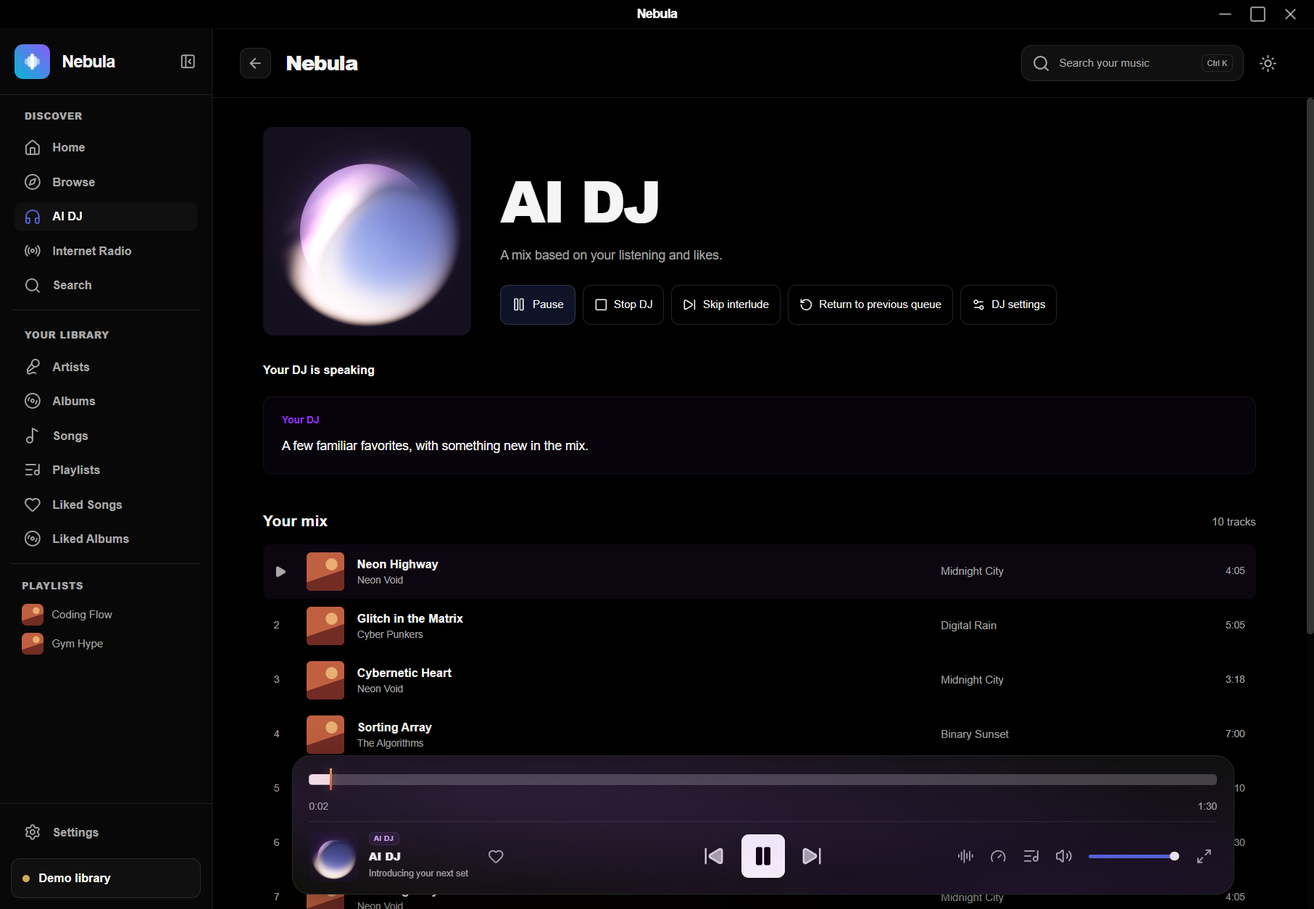
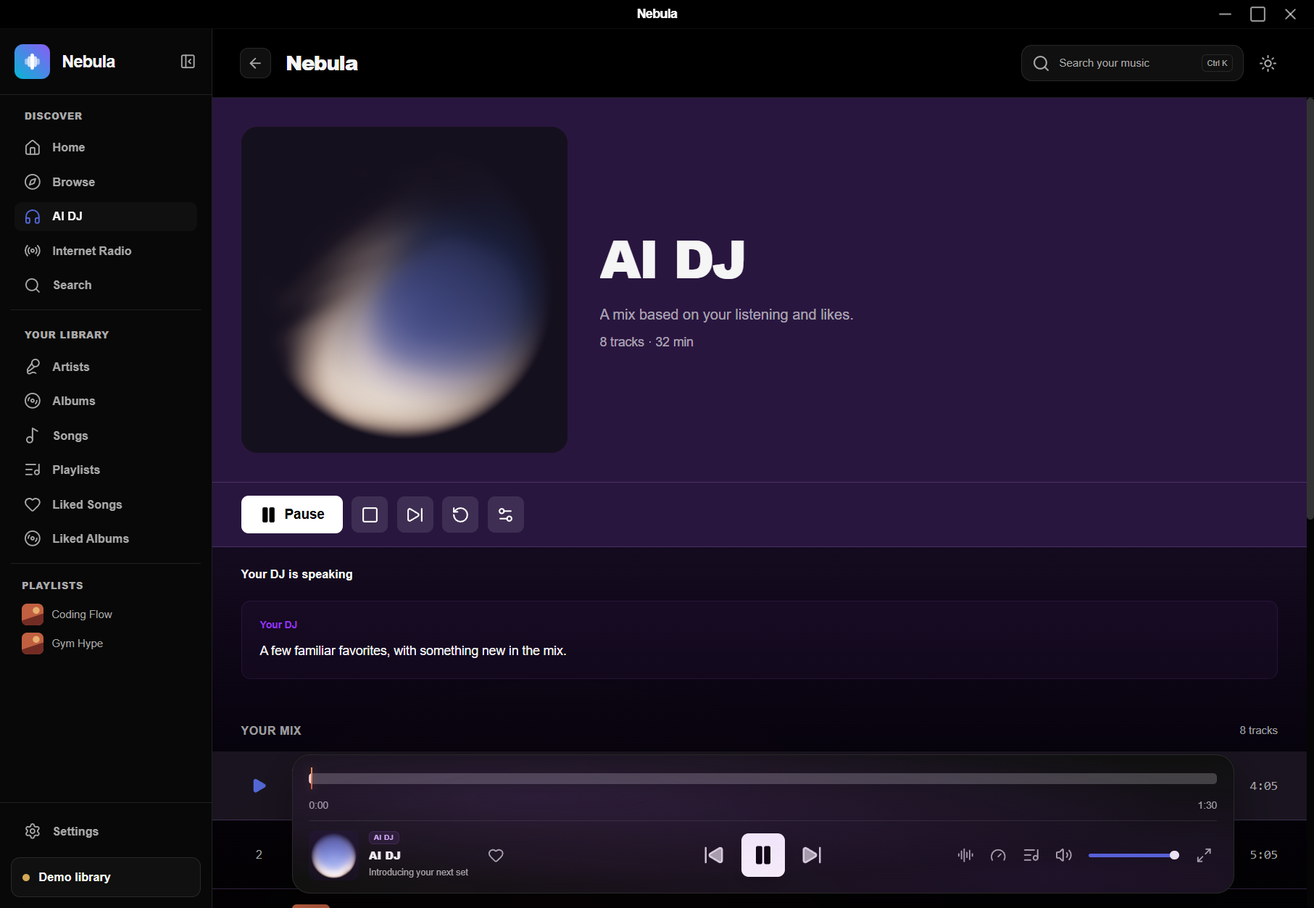
Align AI DJ Discover with collection views and animate idle cover

diff --git a/next-ui.css b/next-ui.css
@@ -282,7 +282,7 @@ html.dark .nebula-next-setup .nebula-setup-card { border-color: #303030; backgro
 .nebula-next [data-nebula-radio-modal] { overflow-y: auto; }
 
 /* Shared collection header contracts without changing the document height. */
-.nebula-next :is([data-nebula-view="album-detail"], [data-nebula-view="playlist-detail"]) { --album-line: color-mix(in srgb, var(--album-color) 24%, var(--next-line)); --collection-expanded-cover: clamp(280px, 25vw, 360px); --collection-expanded-font: clamp(36px, 4vw, 64px); --collection-expanded-height: calc(var(--collection-expanded-cover) + 136px); --collection-compact-height: 124px; background: linear-gradient(180deg, color-mix(in srgb, var(--album-color) 42%, var(--next-canvas)) 0px, color-mix(in srgb, var(--album-color) 18%, var(--next-canvas)) 520px, var(--next-canvas) 1150px); }
+.nebula-next :is([data-nebula-view="album-detail"], [data-nebula-view="playlist-detail"], [data-nebula-view="ai-dj"]) { --album-line: color-mix(in srgb, var(--album-color) 24%, var(--next-line)); --collection-expanded-cover: clamp(280px, 25vw, 360px); --collection-expanded-font: clamp(36px, 4vw, 64px); --collection-expanded-height: calc(var(--collection-expanded-cover) + 136px); --collection-compact-height: 124px; background: linear-gradient(180deg, color-mix(in srgb, var(--album-color) 42%, var(--next-canvas)) 0px, color-mix(in srgb, var(--album-color) 18%, var(--next-canvas)) 520px, var(--next-canvas) 1150px); }
 .nebula-collection-header { --collection-collapse: 0; position: sticky; top: 0; z-index: 20; height: calc(var(--collection-expanded-height) - (var(--collection-expanded-height) - var(--collection-compact-height)) * var(--collection-collapse)); background: color-mix(in srgb, var(--album-color) 38%, var(--next-canvas)); }
 .nebula-collection-spacer { --collection-collapse: 0; height: calc((var(--collection-expanded-height) - var(--collection-compact-height)) * var(--collection-collapse)); pointer-events: none; }
 .nebula-collection-heading { display: flex; align-items: center; gap: calc(36px - 20px * var(--collection-collapse)); height: calc(var(--collection-expanded-height) - 72px - (var(--collection-expanded-height) - 144px) * var(--collection-collapse)); padding: calc(32px - 20px * var(--collection-collapse)) 32px; overflow: hidden; }
@@ -299,23 +299,23 @@ html.dark .nebula-next-setup .nebula-setup-card { border-color: #303030; backgro
 .nebula-next [data-nebula-album-options] button { min-width: 40px; min-height: 40px; padding: 10px; font-size: 15px; }
 .nebula-next [data-nebula-album-options] button:first-child { padding-inline: 20px; }
 .nebula-next [data-nebula-album-options] svg { width: 20px; height: 20px; }
-.nebula-next :is([data-nebula-view="album-detail"], [data-nebula-view="playlist-detail"]) [data-nebula-detail-content] { padding: 0 32px; }
-.nebula-next :is([data-nebula-view="album-detail"], [data-nebula-view="playlist-detail"]) [data-nebula-track-section] { margin-inline: -32px; background: none; border: 0; border-radius: 0; }
-.nebula-next :is([data-nebula-view="album-detail"], [data-nebula-view="playlist-detail"]) [data-nebula-track-section-inner] { padding: 0; }
-.nebula-next :is([data-nebula-view="album-detail"], [data-nebula-view="playlist-detail"]) [data-nebula-track-section-inner] > h2 { font-size: 13px; padding: 20px 32px 0; }
-.nebula-next :is([data-nebula-view="album-detail"], [data-nebula-view="playlist-detail"]) [data-nebula-track-list] { padding: 0; border: 0; border-radius: 0; background: none; }
-.nebula-next :is([data-nebula-view="album-detail"], [data-nebula-view="playlist-detail"]) [data-nebula-track-row] { min-height: 76px; padding: 12px 32px; margin: 0; border: 0; border-bottom: 1px solid var(--album-line); border-radius: 0; background: transparent; transition: background-color .18s ease; }
-.nebula-next :is([data-nebula-view="album-detail"], [data-nebula-view="playlist-detail"]) [data-nebula-track-row]:hover, .nebula-next :is([data-nebula-view="album-detail"], [data-nebula-view="playlist-detail"]) [data-nebula-track-row]:focus-within { background: color-mix(in srgb, var(--album-color) 12%, var(--next-surface)); }
-.nebula-next :is([data-nebula-view="album-detail"], [data-nebula-view="playlist-detail"]) [data-nebula-track-row][data-current="true"] { background: color-mix(in srgb, var(--album-color) 10%, var(--next-surface)); }
+.nebula-next :is([data-nebula-view="album-detail"], [data-nebula-view="playlist-detail"], [data-nebula-view="ai-dj"]) [data-nebula-detail-content] { padding: 0 32px; }
+.nebula-next :is([data-nebula-view="album-detail"], [data-nebula-view="playlist-detail"], [data-nebula-view="ai-dj"]) [data-nebula-track-section] { margin-inline: -32px; background: none; border: 0; border-radius: 0; }
+.nebula-next :is([data-nebula-view="album-detail"], [data-nebula-view="playlist-detail"], [data-nebula-view="ai-dj"]) [data-nebula-track-section-inner] { padding: 0; }
+.nebula-next :is([data-nebula-view="album-detail"], [data-nebula-view="playlist-detail"], [data-nebula-view="ai-dj"]) [data-nebula-track-section-inner] > h2 { font-size: 13px; padding: 20px 32px 0; }
+.nebula-next :is([data-nebula-view="album-detail"], [data-nebula-view="playlist-detail"], [data-nebula-view="ai-dj"]) [data-nebula-track-list] { padding: 0; border: 0; border-radius: 0; background: none; }
+.nebula-next :is([data-nebula-view="album-detail"], [data-nebula-view="playlist-detail"], [data-nebula-view="ai-dj"]) [data-nebula-track-row] { min-height: 76px; padding: 12px 32px; margin: 0; border: 0; border-bottom: 1px solid var(--album-line); border-radius: 0; background: transparent; transition: background-color .18s ease; }
+.nebula-next :is([data-nebula-view="album-detail"], [data-nebula-view="playlist-detail"], [data-nebula-view="ai-dj"]) [data-nebula-track-row]:hover, .nebula-next :is([data-nebula-view="album-detail"], [data-nebula-view="playlist-detail"], [data-nebula-view="ai-dj"]) [data-nebula-track-row]:focus-within { background: color-mix(in srgb, var(--album-color) 12%, var(--next-surface)); }
+.nebula-next :is([data-nebula-view="album-detail"], [data-nebula-view="playlist-detail"], [data-nebula-view="ai-dj"]) [data-nebula-track-row][data-current="true"] { background: color-mix(in srgb, var(--album-color) 10%, var(--next-surface)); }
 .nebula-next [data-nebula-track-title] { font-size: 16px; font-weight: 600; }
 .nebula-next [data-nebula-track-duration] { font-size: 14px; width: 48px; }
 .nebula-next [data-nebula-track-play] { width: 40px; height: 40px; border-radius: 8px; }
 .nebula-next [data-nebula-track-play] > span { font-size: 13px; }
 .nebula-next [data-nebula-track-play] > svg { width: 18px; height: 18px; }
-.nebula-next :is([data-nebula-view="album-detail"], [data-nebula-view="playlist-detail"]) [data-nebula-track-actions] button { width: 40px; height: 40px; display: grid; place-items: center; border-radius: 8px; }
-.nebula-next :is([data-nebula-view="album-detail"], [data-nebula-view="playlist-detail"]) [data-nebula-track-actions] svg { width: 18px; height: 18px; }
+.nebula-next :is([data-nebula-view="album-detail"], [data-nebula-view="playlist-detail"], [data-nebula-view="ai-dj"]) [data-nebula-track-actions] button { width: 40px; height: 40px; display: grid; place-items: center; border-radius: 8px; }
+.nebula-next :is([data-nebula-view="album-detail"], [data-nebula-view="playlist-detail"], [data-nebula-view="ai-dj"]) [data-nebula-track-actions] svg { width: 18px; height: 18px; }
 .nebula-next [data-nebula-track-quality] { font-size: 11px; padding: 3px 6px; }
-.nebula-next :is([data-nebula-view="album-detail"], [data-nebula-view="playlist-detail"]) button:focus-visible { outline: 2px solid var(--next-accent); outline-offset: 2px; }
+.nebula-next :is([data-nebula-view="album-detail"], [data-nebula-view="playlist-detail"], [data-nebula-view="ai-dj"]) button:focus-visible { outline: 2px solid var(--next-accent); outline-offset: 2px; }
 
 @container nebula-rail (max-height: 720px) {
   .nebula-rail-brand { height: 56px; }
@@ -339,14 +339,14 @@ html.dark .nebula-next-setup .nebula-setup-card { border-color: #303030; backgro
   .nebula-rail-status { padding: 5px; }
 }
 @media (max-width: 767px) {
-  .nebula-next :is([data-nebula-view="album-detail"], [data-nebula-view="playlist-detail"]) { --collection-expanded-cover: clamp(110px, 30vw, 180px); --collection-expanded-font: 28px; --collection-expanded-height: calc(var(--collection-expanded-cover) + 200px); }
+  .nebula-next :is([data-nebula-view="album-detail"], [data-nebula-view="playlist-detail"], [data-nebula-view="ai-dj"]) { --collection-expanded-cover: clamp(110px, 30vw, 180px); --collection-expanded-font: 28px; --collection-expanded-height: calc(var(--collection-expanded-cover) + 200px); }
   .nebula-collection-heading { padding-inline: 16px; gap: 16px; }
   .nebula-collection-actions { padding-inline: 16px; }
-  .nebula-next :is([data-nebula-view="album-detail"], [data-nebula-view="playlist-detail"]) [data-nebula-detail-content] { padding-inline: 16px; }
+  .nebula-next :is([data-nebula-view="album-detail"], [data-nebula-view="playlist-detail"], [data-nebula-view="ai-dj"]) [data-nebula-detail-content] { padding-inline: 16px; }
   .nebula-next [data-nebula-album-meta] { font-size: 13px; }
-  .nebula-next :is([data-nebula-view="album-detail"], [data-nebula-view="playlist-detail"]) [data-nebula-track-row] { padding: 10px 16px; gap: 6px; }
-  .nebula-next :is([data-nebula-view="album-detail"], [data-nebula-view="playlist-detail"]) [data-nebula-track-section] { margin-inline: -16px; }
-  .nebula-next :is([data-nebula-view="album-detail"], [data-nebula-view="playlist-detail"]) [data-nebula-track-section-inner] > h2 { padding-inline: 16px; }
+  .nebula-next :is([data-nebula-view="album-detail"], [data-nebula-view="playlist-detail"], [data-nebula-view="ai-dj"]) [data-nebula-track-row] { padding: 10px 16px; gap: 6px; }
+  .nebula-next :is([data-nebula-view="album-detail"], [data-nebula-view="playlist-detail"], [data-nebula-view="ai-dj"]) [data-nebula-track-section] { margin-inline: -16px; }
+  .nebula-next :is([data-nebula-view="album-detail"], [data-nebula-view="playlist-detail"], [data-nebula-view="ai-dj"]) [data-nebula-track-section-inner] > h2 { padding-inline: 16px; }
   .nebula-next [data-nebula-track-quality] { display: none; }
   .nebula-next [data-nebula-track-duration] { font-size: 12px; width: 38px; }
   .nebula-content-modal { padding: 12px; }
@@ -406,7 +406,7 @@ html.dark .nebula-next-setup .nebula-setup-card { border-color: #303030; backgro
 .nebula-speed-pitch-stepper input { width: 100%; min-width: 0; accent-color: var(--next-accent); }
 .nebula-speed-pitch-trigger.has-label { display: flex; height: auto; width: auto; padding: 8px 12px; gap: 8px; }
 .nebula-speed-pitch-panel :is(button, input):focus-visible { outline: 2px solid var(--next-accent); outline-offset: 2px; }
-.nebula-next :is([data-nebula-view="album-detail"], [data-nebula-view="playlist-detail"]) [data-nebula-detail-content] { padding-top: 0; }
+.nebula-next :is([data-nebula-view="album-detail"], [data-nebula-view="playlist-detail"], [data-nebula-view="ai-dj"]) [data-nebula-detail-content] { padding-top: 0; }
 .nebula-next [data-nebula-library] [data-nebula-view-header] { flex-direction: row; gap: 16px; align-items: center; }
 .nebula-next [data-nebula-library] [data-nebula-view-header] > h1 { font-size: clamp(28px, 3vw, 44px); flex: none; }
 .nebula-next [data-nebula-library] [data-nebula-view-header] > div { flex: 1; width: auto; min-width: 0; }

diff --git a/views/AiDj.tsx b/views/AiDj.tsx
@@ -3,44 +3,61 @@ import { Play, Pause, Square, SkipForward, RotateCcw, Settings2 } from 'lucide-r
 import { useStore } from '../context/Store';
 import { usePlatform } from '../platform/PlatformContext';
 import { DjCover } from '../components/player/DjCover';
+import { CollectionHeader } from '../components/CollectionHeader';
+
+const primaryClass = 'flex items-center gap-2 px-5 py-2 bg-neutral-900 text-white font-bold rounded-lg hover:bg-neutral-800 transition text-sm dark:bg-white dark:text-black dark:hover:bg-primary dark:hover:text-white disabled:opacity-50 disabled:cursor-not-allowed';
+const actionClass = 'flex items-center justify-center rounded-lg bg-neutral-200 text-neutral-700 transition hover:bg-neutral-300 hover:text-neutral-900 dark:bg-white/10 dark:text-white dark:hover:bg-white/20';
 
 export function AiDjView() {
   const { dj, service, queue, currentSongIndex, playQueueIndex, setView, isPlaying, togglePlay } = useStore();
   const platform = usePlatform();
   const { state, presentation } = dj;
   const tracks = state.active ? queue : [];
+  const duration = tracks.reduce((total, song) => total + song.duration, 0);
   const status = state.phase === 'preparing' ? 'Preparing your session…'
     : presentation.speech ? presentation.playing ? 'Your DJ is speaking' : 'DJ paused'
     : state.active ? `${state.completed} of ${dj.config.interval} tracks · ${isPlaying ? 'Listening' : 'Paused'}`
     : 'Ready to play';
-  return <div className="nebula-dj-view" data-nebula-view="ai-dj">
-    <header className="nebula-dj-view-header">
-      <div className="nebula-dj-view-art"><DjCover playing={presentation.playing} analyser={dj.voiceAnalyser} /></div>
-      <div className="nebula-dj-view-copy">
-        <h1>AI DJ</h1>
+
+  return <div className="nebula-dj-view min-h-full w-full pb-32" data-nebula-view="ai-dj" style={{ '--album-color': '#6d3aa5' } as React.CSSProperties}>
+    <CollectionHeader title="AI DJ" artwork={<DjCover animateIdle playing={presentation.playing} analyser={dj.voiceAnalyser} />} metadata={
+      <div data-nebula-album-meta className="text-neutral-600 dark:text-white/60">
         <p>A mix based on your listening and likes.</p>
-        <div className="nebula-dj-actions">
-          {state.active ? <><button type="button" className="nebula-dj-primary" onClick={togglePlay}>{isPlaying ? <Pause size={16} /> : <Play size={16} />}{isPlaying ? 'Pause' : 'Resume'}</button><button type="button" onClick={() => dj.stop()}><Square size={15} />Stop DJ</button></>
-            : <button type="button" className="nebula-dj-primary" disabled={!platform?.aiDj || !dj.readiness?.ready || state.phase === 'preparing' || presentation.speech} onClick={() => void dj.start()}><Play size={16} />Start AI DJ</button>}
-          {state.active && presentation.speech && <button type="button" onClick={dj.skipInterlude}><SkipForward size={15} />Skip interlude</button>}
-          {dj.canRestore && <button type="button" onClick={dj.restore}><RotateCcw size={15} />Return to previous queue</button>}
-          <button type="button" onClick={() => setView('SETTINGS', 'settings-ai-dj')}><Settings2 size={15} />DJ settings</button>
-        </div>
+        {tracks.length > 0 && <p className="mt-2 text-sm">{tracks.length} tracks · {Math.floor(duration / 60)} min</p>}
       </div>
-    </header>
-    <div className="nebula-dj-view-status" role="status">{platform?.aiDj ? !state.active && !dj.readiness?.ready ? dj.readiness?.error || 'Checking local models…' : status : 'AI DJ is available in the Windows desktop app.'}</div>
-    {state.active && state.preparingNext && <p className="nebula-dj-status">Preparing the next interlude…</p>}
-    {state.error && <p className="nebula-dj-error" role="status">{state.error}</p>}
-    {dj.config.showTranscript && state.transcript && <section className="nebula-dj-caption" aria-label="DJ transcription"><h2>Your DJ</h2><blockquote>{state.transcript}</blockquote></section>}
-    {tracks.length > 0 ? <section aria-label="AI DJ queue" className="nebula-dj-view-queue">
-      <div className="nebula-dj-queue-heading"><h2>Your mix</h2><span>{tracks.length} tracks</span></div>
-      {tracks.map((song, index) => <button type="button" key={song.id + ':' + index} className="nebula-dj-track-row" data-current={index === currentSongIndex} aria-label={`Play ${song.title} by ${song.artist}`} aria-current={index === currentSongIndex ? 'true' : undefined} onClick={() => playQueueIndex(index)}>
-        <span className="nebula-dj-track-number">{index === currentSongIndex && isPlaying ? <Play size={14} fill="currentColor" /> : index + 1}</span>
-        <img src={service.getCoverArtUrl(song.coverArt || song.id, 80)} alt="" loading="lazy" />
-        <span className="nebula-dj-track-copy"><strong>{song.title}</strong><small>{song.artist}</small></span>
-        <span className="nebula-dj-track-album">{song.album}</span>
-        <span className="nebula-dj-track-duration">{Math.floor(song.duration / 60)}:{String(Math.floor(song.duration % 60)).padStart(2, '0')}</span>
-      </button>)}
-    </section> : <p className="nebula-dj-empty">Your mix will appear here.</p>}
+    } actions={
+      <div data-nebula-album-options className="nebula-dj-collection-actions flex items-center gap-3">
+        {state.active ? <>
+          <button type="button" className={primaryClass} onClick={togglePlay}>{isPlaying ? <Pause className="fill-current" /> : <Play className="fill-current" />}{isPlaying ? 'Pause' : 'Resume'}</button>
+          <button type="button" className={actionClass} aria-label="Stop DJ" title="Stop DJ" onClick={() => dj.stop()}><Square /><span className="sr-only">Stop DJ</span></button>
+        </> : <button type="button" className={primaryClass} disabled={!platform?.aiDj || !dj.readiness?.ready || state.phase === 'preparing' || presentation.speech} onClick={() => void dj.start()}><Play className="fill-current" />Start AI DJ</button>}
+        {state.active && presentation.speech && <button type="button" className={actionClass} aria-label="Skip interlude" title="Skip interlude" onClick={dj.skipInterlude}><SkipForward /><span className="sr-only">Skip interlude</span></button>}
+        {dj.canRestore && <button type="button" className={actionClass} aria-label="Return to previous queue" title="Return to previous queue" onClick={dj.restore}><RotateCcw /><span className="sr-only">Return to previous queue</span></button>}
+        <button type="button" className={actionClass} aria-label="DJ settings" title="DJ settings" onClick={() => setView('SETTINGS', 'settings-ai-dj')}><Settings2 /><span className="sr-only">DJ settings</span></button>
+      </div>
+    } />
+    <div data-nebula-detail-content className="px-6 lg:px-10">
+      <div className="nebula-dj-view-status" role="status">{platform?.aiDj ? !state.active && !dj.readiness?.ready ? dj.readiness?.error || 'Checking local models…' : status : 'AI DJ is available in the Windows desktop app.'}</div>
+      {state.active && state.preparingNext && <p className="nebula-dj-status">Preparing the next interlude…</p>}
+      {state.error && <p className="nebula-dj-error" role="status">{state.error}</p>}
+      {dj.config.showTranscript && state.transcript && <section className="nebula-dj-caption" aria-label="DJ transcription"><h2>Your DJ</h2><blockquote>{state.transcript}</blockquote></section>}
+      <section aria-label="AI DJ queue" data-nebula-track-section className="nebula-dj-view-queue mb-8">
+        <div data-nebula-track-section-inner>
+          <h2 className="nebula-dj-mix-heading text-sm font-semibold uppercase tracking-wide text-neutral-700 dark:text-white/60">Your mix<span className="text-xs font-normal normal-case tracking-normal">{tracks.length} tracks</span></h2>
+          <div data-nebula-track-list>
+            {tracks.map((song, index) => <button type="button" key={song.id + ':' + index} className="nebula-dj-track-row group flex w-full items-center gap-4 text-left" data-nebula-track-row data-current={index === currentSongIndex} aria-label={`Play ${song.title} by ${song.artist}`} aria-current={index === currentSongIndex ? 'true' : undefined} onClick={() => playQueueIndex(index)}>
+              <span data-nebula-track-play className="nebula-dj-track-number relative flex shrink-0 items-center justify-center">
+                {index === currentSongIndex && isPlaying ? <Play className="text-primary" fill="currentColor" /> : <><span className="group-hover:opacity-0">{index + 1}</span><Play className="absolute opacity-0 group-hover:opacity-100" fill="currentColor" /></>}
+              </span>
+              <img className="nebula-dj-track-art" src={service.getCoverArtUrl(song.coverArt || song.id, 80)} alt="" loading="lazy" />
+              <span className="nebula-dj-track-copy"><strong data-nebula-track-title className={index === currentSongIndex ? 'text-primary' : ''}>{song.title}</strong><small>{song.artist}</small></span>
+              <span className="nebula-dj-track-album">{song.album}</span>
+              <span data-nebula-track-duration className="nebula-dj-track-duration shrink-0 text-right font-mono">{Math.floor(song.duration / 60)}:{String(Math.floor(song.duration % 60)).padStart(2, '0')}</span>
+            </button>)}
+            {!tracks.length && <p className="nebula-dj-empty px-8 py-12 text-center">Your mix will appear here.</p>}
+          </div>
+        </div>
+      </section>
+    </div>
   </div>;
 }

diff --git a/dj-ui.css b/dj-ui.css
@@ -1,5 +1,6 @@
 .nebula-dj-cover { position: relative; width: 100%; height: 100%; overflow: hidden; background: #15101e; }
 .nebula-dj-cover > img { display: block; width: 100%; height: 100%; object-fit: cover; }
+.nebula-dj-cover[data-shader-ready="true"] > img { visibility: hidden; }
 .nebula-dj-cover > div { position: absolute !important; inset: 0; }
 .nebula-dj-haze { position: absolute; inset: 0; pointer-events: none; border-radius: inherit; z-index: 1; opacity: 0; transition: opacity 300ms ease; background: radial-gradient(ellipse at 25% 30%, rgba(168,85,247,.19), transparent 65%), radial-gradient(ellipse at 80% 90%, rgba(126,34,206,.12), transparent 70%); }
 .nebula-dj-haze[data-session="true"] { opacity: .7; }
@@ -9,32 +10,15 @@
 .dark .nebula-dj-badge { color: #d8b4fe; }
 .nebula-transport { position: relative; }
 .nebula-transport-track-copy .nebula-dj-badge { width: max-content; font-size: 8px; }
-.nebula-dj-view { max-width: 1160px; margin: 0 auto; padding: 32px; color: var(--next-text, inherit); }
-.nebula-dj-view-header { display: flex; align-items: flex-end; gap: 32px; margin-bottom: 28px; }
-.nebula-dj-view-art { width: clamp(150px, 22vw, 230px); aspect-ratio: 1; border-radius: 12px; overflow: hidden; flex-shrink: 0; box-shadow: 0 12px 32px rgba(0,0,0,.12); }
-.nebula-dj-view-copy { min-width: 0; }
-.nebula-dj-view-copy h1 { font-size: clamp(36px, 5vw, 64px); font-weight: 800; letter-spacing: -.04em; line-height: 1.1; margin: 10px 0 14px; }
-.nebula-dj-view-copy > p { max-width: 650px; color: var(--next-muted, #737373); font-size: 14px; line-height: 1.7; margin-bottom: 20px; }
 .nebula-dj-eyebrow { display: flex; align-items: center; gap: 7px; font-size: 11px; font-weight: 600; color: var(--next-muted, #737373); }
-.nebula-dj-view-status { font-size: 13px; font-weight: 600; margin-bottom: 12px; }
+.nebula-dj-view-status { font-size: 13px; font-weight: 600; padding-top: 20px; }
+.nebula-dj-empty { font-size: 14px; color: var(--next-muted); }
 .nebula-dj-caption { padding: 18px 20px; border-radius: 10px; border: 1px solid rgba(168,85,247,.12); background: rgba(168,85,247,.04); margin: 20px 0 28px; }
 .nebula-dj-caption h2 { font-size: 11px; font-weight: 700; color: #9333ea; margin-bottom: 8px; }
 .nebula-dj-caption blockquote { font-size: 14px; line-height: 1.7; margin: 0; }
-.nebula-dj-queue-heading { display: flex; align-items: center; justify-content: space-between; padding: 12px 0; }
-.nebula-dj-queue-heading h2 { font-size: 17px; font-weight: 700; }
-.nebula-dj-queue-heading > span, .nebula-dj-empty, .nebula-dj-next-summary { font-size: 12px; color: var(--next-muted, #737373); }
-.nebula-dj-track-row { display: flex; width: 100%; align-items: center; gap: 14px; border-radius: 8px; padding: 9px 12px; text-align: left; color: inherit; }
-.nebula-dj-track-row:hover { background: var(--next-surface, rgba(128,128,128,.08)); }
-.nebula-dj-track-row[data-current="true"] { background: rgba(168,85,247,.07); }
-.nebula-dj-track-row img { width: 42px; height: 42px; border-radius: 5px; object-fit: cover; }
-.nebula-dj-track-number { width: 22px; flex-shrink: 0; font-size: 11px; color: var(--next-muted, #737373); }
 .nebula-dj-track-copy { display: flex; flex-direction: column; flex: 1; min-width: 0; }
-.nebula-dj-track-copy strong { font-size: 13px; font-weight: 600; overflow: hidden; text-overflow: ellipsis; white-space: nowrap; }
-.nebula-dj-track-copy small { font-size: 11px; color: var(--next-muted, #737373); }
-.nebula-dj-track-album { width: 28%; font-size: 12px; color: var(--next-muted, #737373); overflow: hidden; text-overflow: ellipsis; white-space: nowrap; }
-.nebula-dj-track-duration { font-size: 11px; font-variant-numeric: tabular-nums; color: var(--next-muted, #737373); }
 .nebula-dj-next-summary { margin-top: 18px; }
-@media (max-width: 767px) { .nebula-dj-view { padding: 20px; } .nebula-dj-view-header { flex-direction: column; align-items: flex-start; gap: 20px; } .nebula-dj-view-art { width: 160px; } .nebula-dj-track-album { display: none; } }
+@media (max-width: 767px) { .nebula-dj-track-album { display: none; } }
 @media (prefers-reduced-motion: reduce) { .nebula-dj-haze { transition: none; } }
 
 .nebula-dj-actions button:focus-visible, .nebula-dj-track-row:focus-visible { outline: 2px solid var(--next-accent); outline-offset: 3px; }
@@ -55,10 +39,28 @@
   .nebula-dj-preference-control { width: 100%; }
 }
 
+.nebula-dj-track-row { color: var(--next-text); }
+.nebula-dj-track-art { width: 42px; height: 42px; border-radius: 5px; object-fit: cover; flex-shrink: 0; }
+.nebula-dj-track-number { color: var(--next-muted); }
+.nebula-dj-track-copy strong { overflow: hidden; text-overflow: ellipsis; white-space: nowrap; }
+.nebula-dj-track-copy small { font-size: 12px; color: var(--next-muted); overflow: hidden; text-overflow: ellipsis; white-space: nowrap; }
+.nebula-dj-track-album { width: 28%; font-size: 14px; color: var(--next-muted); overflow: hidden; text-overflow: ellipsis; white-space: nowrap; }
+.nebula-dj-track-duration { color: var(--next-muted); }
+.nebula-next .nebula-dj-view[data-nebula-view="ai-dj"] .nebula-dj-mix-heading { display: flex; align-items: center; justify-content: space-between; gap: 16px; padding-bottom: 14px; margin: 0; }
 @container nebula-content (max-width: 700px) {
-  .nebula-dj-view { padding: 20px; }
-  .nebula-dj-view-header { flex-wrap: wrap; align-items: flex-start; gap: 20px; }
-  .nebula-dj-view-art { width: 160px; }
-  .nebula-dj-view-copy { flex: 1 1 260px; }
+  .nebula-next .nebula-dj-view[data-nebula-view="ai-dj"] { --collection-expanded-cover: clamp(110px, 25cqw, 180px); --collection-expanded-font: 28px; --collection-expanded-height: calc(var(--collection-expanded-cover) + 136px); }
   .nebula-dj-track-album { display: none; }
+}
+@container nebula-content (max-width: 420px) {
+  .nebula-next .nebula-dj-view[data-nebula-view="ai-dj"] { --collection-expanded-height: calc(var(--collection-expanded-cover) + 160px); }
+  .nebula-next .nebula-dj-view[data-nebula-view="ai-dj"] .nebula-collection-heading { padding-inline: 16px; gap: 16px; }
+  .nebula-next .nebula-dj-view[data-nebula-view="ai-dj"] .nebula-collection-actions { padding-inline: 16px; }
+  .nebula-next .nebula-dj-view[data-nebula-view="ai-dj"] [data-nebula-album-options] { gap: 6px; }
+  .nebula-next .nebula-dj-view[data-nebula-view="ai-dj"] [data-nebula-album-options] button:first-child { padding-inline: 12px; font-size: 12px; }
+  .nebula-next .nebula-dj-view[data-nebula-view="ai-dj"] [data-nebula-album-options] svg { width: 16px; height: 16px; }
+  .nebula-next .nebula-dj-view[data-nebula-view="ai-dj"] [data-nebula-detail-content] { padding-inline: 16px; }
+  .nebula-next .nebula-dj-view[data-nebula-view="ai-dj"] [data-nebula-track-section] { margin-inline: -16px; }
+  .nebula-next .nebula-dj-view[data-nebula-view="ai-dj"] [data-nebula-track-row] { padding-inline: 16px; gap: 6px; }
+  .nebula-next .nebula-dj-view[data-nebula-view="ai-dj"] .nebula-dj-mix-heading { padding-inline: 16px; }
+  .nebula-dj-view [data-nebula-album-meta] { font-size: 13px; }
 }

diff --git a/components/player/DjCover.test.tsx b/components/player/DjCover.test.tsx
@@ -5,7 +5,6 @@ import { afterEach, beforeEach, expect, it, vi } from 'vitest';
 import { DjCover } from './DjCover';
 
 const controls = vi.hoisted(() => ({ reduced: false, disposed: vi.fn(), props: null as any }));
-vi.mock('framer-motion', () => ({ useReducedMotion: () => controls.reduced }));
 vi.mock('../vendor/shadercn/components/orbs/orb-21', () => ({ Orb21: (props: any) => {
   controls.props = props;
   useEffect(() => () => controls.disposed(), []);
@@ -14,9 +13,13 @@ vi.mock('../vendor/shadercn/components/orbs/orb-21', () => ({ Orb21: (props: any
 
 let container: HTMLDivElement, root: Root;
 let intersect: (entries: { isIntersecting: boolean }[]) => void;
+let motionQuery: EventTarget;
 beforeEach(() => {
   vi.stubGlobal('IS_REACT_ACT_ENVIRONMENT', true);
   controls.reduced = false; controls.disposed.mockClear(); controls.props = null;
+  motionQuery = new EventTarget();
+  Object.defineProperty(motionQuery, 'matches', { get: () => controls.reduced });
+  vi.stubGlobal('matchMedia', () => motionQuery);
   Object.defineProperty(navigator, 'gpu', { configurable: true, value: {} });
   vi.stubGlobal('IntersectionObserver', class {
     constructor(callback: typeof intersect) { intersect = callback; }
@@ -25,7 +28,7 @@ beforeEach(() => {
   container = document.createElement('div'); root = createRoot(container);
 });
 afterEach(async () => { await act(async () => root.unmount()); vi.unstubAllGlobals(); vi.restoreAllMocks(); });
-const render = async (playing: boolean) => act(async () => root.render(<DjCover playing={playing} energy={0.4} />));
+const render = async (playing: boolean, animateIdle = false) => act(async () => root.render(<DjCover playing={playing} animateIdle={animateIdle} energy={0.4} />));
 
 it('renders the pinned orb with actual volume input and releases it on pause', async () => {
   await render(true);
@@ -43,9 +46,30 @@ it('uses static art for reduced motion and missing WebGPU', async () => {
   expect(container.querySelector('canvas')).toBeNull();
   controls.reduced = false;
   Object.defineProperty(navigator, 'gpu', { configurable: true, value: undefined });
+  await act(async () => motionQuery.dispatchEvent(new Event('change')));
   await render(true);
   expect(container.querySelector('[aria-label="AI DJ cover"] img')).not.toBeNull();
   expect(container.querySelector('canvas')).toBeNull();
+});
+
+it('keeps the Discover orb moving at rest and respects live reduced-motion changes', async () => {
+  await render(false, true);
+  expect(container.querySelector('canvas')).not.toBeNull();
+  expect(controls.props.state).toBe('idle');
+  await act(async () => controls.props.onFirstFrame());
+  expect(container.querySelector('.nebula-dj-cover')?.getAttribute('data-shader-ready')).toBe('true');
+  controls.reduced = true;
+  await act(async () => motionQuery.dispatchEvent(new Event('change')));
+  expect(container.querySelector('canvas')).toBeNull();
+  expect(container.querySelector('.nebula-dj-cover')?.getAttribute('data-shader-ready')).toBe('false');
+  controls.reduced = false;
+  await act(async () => motionQuery.dispatchEvent(new Event('change')));
+  expect(container.querySelector('canvas')).not.toBeNull();
+  expect(container.querySelector('.nebula-dj-cover')?.getAttribute('data-shader-ready')).toBe('false');
+  await render(true, true);
+  expect(controls.props.state).toBe('speaking');
+  await render(false, true);
+  expect(container.querySelector('canvas')).not.toBeNull();
 });
 
 it('releases rendering offscreen and while hidden, then resumes when visible', async () => {

diff --git a/components/player/DjCover.tsx b/components/player/DjCover.tsx
@@ -1,5 +1,4 @@
 import React, { lazy, Suspense, useEffect, useRef, useState } from 'react';
-import { useReducedMotion } from 'framer-motion';
 import { useSpeechEnergy } from '../../hooks/useSpeechEnergy';
 import fallback from '../../assets/dj-cover.svg';
 
@@ -7,14 +6,22 @@ const Orb = lazy(() => import('../vendor/shadercn/components/orbs/orb-21').then(
 const palette = { light: '#e9d5ff', shadow: '#59328a' };
 const states = { idle: palette, thinking: palette, speaking: palette };
 
-export function DjCover({ playing = false, analyser = null, energy: remoteEnergy, className = '' }: {
-  playing?: boolean; analyser?: AnalyserNode | null; energy?: number; className?: string;
+export function DjCover({ playing = false, animateIdle = false, analyser = null, energy: remoteEnergy, className = '' }: {
+  playing?: boolean; animateIdle?: boolean; analyser?: AnalyserNode | null; energy?: number; className?: string;
 }) {
-  const reduced = useReducedMotion();
+  const [reduced, setReduced] = useState(() => typeof window !== 'undefined' && !!window.matchMedia?.('(prefers-reduced-motion: reduce)').matches);
   const root = useRef<HTMLDivElement>(null);
   const [visible, setVisible] = useState(false);
   const [failed, setFailed] = useState(false);
+  const [painted, setPainted] = useState(false);
   const localEnergy = useSpeechEnergy(analyser, playing && visible && !reduced);
+  useEffect(() => {
+    if (!window.matchMedia) return;
+    const media = window.matchMedia('(prefers-reduced-motion: reduce)');
+    const refresh = () => setReduced(media.matches);
+    media.addEventListener('change', refresh); refresh();
+    return () => media.removeEventListener('change', refresh);
+  }, []);
   useEffect(() => {
     const element = root.current; if (!element) return;
     let intersects = true;
@@ -23,11 +30,12 @@ export function DjCover({ playing = false, analyser = null, energy: remoteEnergy
     observer?.observe(element); document.addEventListener('visibilitychange', refresh); refresh();
     return () => { observer?.disconnect(); document.removeEventListener('visibilitychange', refresh); };
   }, []);
-  const animated = playing && visible && !reduced && !failed && !!navigator.gpu;
-  return <div ref={root} className={'nebula-dj-cover ' + className} role="img" aria-label="AI DJ cover">
+  const animated = (playing || animateIdle) && visible && !reduced && !failed && !!navigator.gpu;
+  useEffect(() => { if (!animated) setPainted(false); }, [animated]);
+  return <div ref={root} className={'nebula-dj-cover ' + className} data-shader-ready={animated && painted} role="img" aria-label="AI DJ cover">
     <img src={fallback} alt="" draggable={false} />
-    {animated && <Suspense fallback={null}><Orb state="speaking" colors={palette} stateColors={states}
+    {animated && <Suspense fallback={null}><Orb state={playing ? 'speaking' : 'idle'} colors={palette} stateColors={states}
       params={{ speed: 1.4, churn: 0.16, lightSpin: 0.06, power: 1.15, ambient: 0.12, shadowLift: 0.55, exposure: 0.85 }} volumes={{ input: 0, output: remoteEnergy ?? localEnergy }}
-      maxDpr={1.5} pauseOffscreen onError={() => setFailed(true)} style={{ width: '100%', height: '100%' }} /></Suspense>}
+      maxDpr={1.5} pauseOffscreen onFirstFrame={() => setPainted(true)} onError={() => setFailed(true)} style={{ width: '100%', height: '100%' }} /></Suspense>}
   </div>;
 }

diff --git a/README.md b/README.md
@@ -33,7 +33,7 @@ artwork. The stable branch retains its own screenshots.
 <table>
   <tr>
     <td width="50%">
-      <img src="./screenshots/beta-ai-dj.png" alt="AI DJ Discover view with session queue, transcription and purple voice cover">
+      <img src="./screenshots/beta-ai-dj.png" alt="AI DJ collection-style Discover view with session queue, transcription and animated purple cover">
     </td>
     <td width="50%">
       <img src="./screenshots/beta-player.png" alt="Full-screen player showing the purple DJ orb during speech">
@@ -152,6 +152,7 @@ reset the DJ's learning without removing likes or existing play counts.
 Players show a small AI DJ label and the normal music queue. During speech, the
 main cover becomes a purple orb that responds to voice audio. Next skips speech;
 pause freezes it. Reduced motion or unavailable WebGPU uses a static cover.
+The Discover cover keeps moving while visible, including idle or paused sessions.
 Optional transcription appears only in Discover. Stop DJ keeps queued music
 playing; Return to previous queue restores your earlier queue and position.
 
